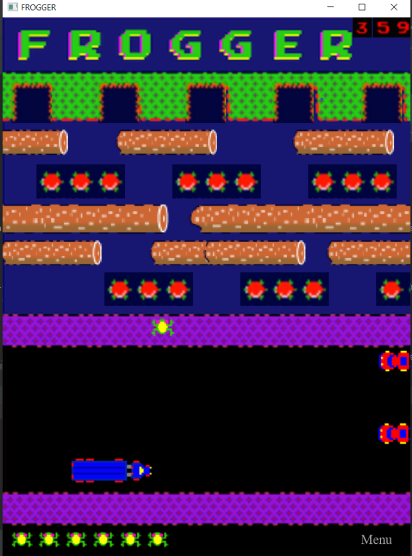
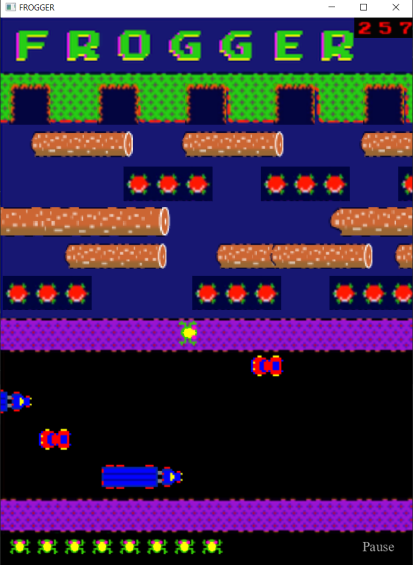
menu edits

diff --git a/src/main/java/application/Main.java b/src/main/java/application/Main.java
@@ -200,18 +200,18 @@ public class Main extends Application {
 	}
 
 	/**
-	 * PauseMenu class defines a Pause Menu with items to let players restart the game,
+	 * Pause class defines a Pause Menu with items to let players restart the game,
 	 * resume the game, exit the game and return to Main Menu upon a click.
 	 */
-	private class Menu extends Pane{
+	private class Pause extends Pane{
 
 		/**
-		 * Class constructor for Menu.
-		 * Creates and instance of Menu to list the menu items that can be accessed by the player
+		 * Class constructor for Pause.
+		 * Creates and instance of Pause to list the menu items that can be accessed by the player
 		 * which includes the Resume, Restart, Exit and Exit to Main Menu buttons.
 		 * @param pauseStage The separate window (Stage) that displays the pause menu
 		 */
-		public Menu(Stage pauseStage){
+		public Pause(Stage pauseStage){
 
 			ImageView image = new ImageView("file:src/main/resources/images/bg.jpg");
 
@@ -313,14 +313,14 @@ public class Main extends Application {
 
 		level = myLevel;
 		MenuBox menu = new MenuBox(
-				new MenuItem("Menu", new ButtonAction() {
+				new MenuItem("Pause", new ButtonAction() {
 					@Override
 					public void act() throws IOException {
 						mediaPlayer.stopMusic();
 						level.stop();
 						frog.blockInputControls = true;
 						Stage pauseStage = new Stage();
-						pauseStage.setScene(new Scene(new Menu(pauseStage)));
+						pauseStage.setScene(new Scene(new Pause(pauseStage)));
 						pauseStage.setHeight(350);
 						pauseStage.setWidth(350);
 						pauseStage.show();

diff --git a/README.md b/README.md
@@ -1,22 +1,23 @@
 ### COMP2042_CW_CeliaLimErnYin
 
-### Screenshot of Game 
+### Screenshots of Game 
 ---
 ![Image test](src/main/resources/images/FroggerMain.png)
 ![Image test](src/main/resources/images/FroggerGame.png)
+![Image test](src/main/resources/images/FroggerPause.png)
 
 
 ### Refactoring 
 ---
 - <h4>Packaging</h4>
 
-Originally the classes were all cluttered together under one package. Therefore, I packaged related classes together.
-1. **actors** - Contains classes that will define objects that will be visible on the stage (window).
+Related classes were packaged together.
+1. **actors** - Contains classes that define objects visible on the stage.
    
-   - **actors.active** - Contains classes of actors that shows movement in the stage. Eg. Animal, Car
-   - **actors.passive** - Contains classes of actors that are static in the stage. Eg. Background Image, Lives
+   - **actors.active** - Contains classes of actors that shows movement. Eg. Animal, Car
+   - **actors.passive** - Contains classes of actors that are static. Eg. Background Image, Lives
 
-2. **world** - Contains classes that defines the stage setting. Eg. LevelType1, MyLevel, World
+2. **world** - Contains classes that defines the stage setting. Eg. LevelType1, World
 
 3. **menu** - Contains classes used to define construction of Menus
 
@@ -26,31 +27,28 @@ Originally the classes were all cluttered together under one package. Therefore,
 
 - <h4>Breaking up of Classes</h4>  
 
-To improve encapsulation and promote single responsibility, large classes like Animal was broken down. An additional AnimationIterator class was added to separately control the animations of the animal.
-The Obstacle class was also broken down to a Car class and a Truck class. 
-A MediaPlay class was also added for playing music to promote single responsibility.  
+To improve encapsulation and promote single responsibility, large classes like Animal was broken down. An additional AnimationIterator class separately controls the animal animations 
+The Obstacle class was also broken down. A MediaPlay class was also separately added for playing music.  
 
 - <h4> Design Patterns</h4> 
 
 Included an MVC pattern to control the MainMenu and show the Info window using scene builder. 
 
 - <h4>Naming Convention Changes</h4>
-The naming convention for a few methods, fields and classes were changed to avoid confusion. 
-Eg. MyStage was changed to MyLevel to avoid confusion with the Stage class in JavaFX.
-The stop() and start() method in Main class were also changed to stopGame() and startGame() to avoid 
-confusion with the stop() and start() method of the timer in World class.
+Some naming conventions were changed to avoid confusion and disorientation that was present in the orginal code. 
+Eg. MyStage was changed to MyLevel to avoid confusion with the JavaFX Stage class.
+
 
 ### Code Maintenance
 ---
 
 - Scoring System
 
-Made changes to the scoring system where points will be added based on travel distance (along the vertical plane) by the player in each round in addition to the 
+Points will now be added based on travel distance (along the vertical plane) by the player in each round in addition to the 
 points earned after winning each level.
 
 - Winning System
 
-Previously, there was a bug where frog holes that have been filled can still be entered by the frog.
 Changes were made so that frog holes can no longer be activated for a second time. 
 
 - Display of scores
@@ -59,13 +57,12 @@ Made changes on the display of scores so that the images of scores would not ove
 
 - Animation of Frog
 
-Made changes in the animation of the frog. A separate class was created to handle the animation of the movements of the frog.
+A separate class was created to handle the animation of the movements of the frog.
 Images of the frog are now stored in an array to be looped every frame to form an animation.
 
 - Movement on Obstacles
 
-Made changes to the code defining the movement of the frog when standing on obstacles. Instead of fixing the speed of the frog, we will get the speed of the obstacle and assigned it to the frog
-so it will move in time with the obstacle.
+Instead of fixing the speed of the frog, we will get the speed of the obstacles and assigned it to the frog so it will move in time with the obstacle.
 
 
 ### Additions
@@ -73,31 +70,31 @@ so it will move in time with the obstacle.
 
 - Main Menu 
 
-Added an interactive Main Menu for the game displaying options to start the game, exit the game, access the leaderboard or the info Menu.
+Added a Main Menu  with options to start the game, exit the game, access the leaderboard or the info Menu.
 
 - LeaderBoard
 
-Added a Leaderboard displaying all the scores of the players after each game. The Leaderboard is a permanent score listing of the game.
+Added a permanent Leaderboard displaying all the scores of the players in order.
 The scores are stored in a file and loaded each time the game application starts.
 
 - Information Menu
 
-Added an Info Menu using Scence Builder to include an MVC pattern in the design. There is a controller class that controls the functions of the Info Menu.
-The Info Menu shows simple information on the operations of the game.
+Added an Info Menu using that shows the simple operations of the game. A controller class controls the functions of the Info Menu.
+
 
 - Pause Menu
 
-Added a mid-game pause Menu so players can pause the game. The pause Menu also lets players restart the game , resume the game, exit back to the main menu or exit the game entirely.
+Added a mid-game pause Menu so players can pause, resume, restart the game, exit to the main menu or exit the game entirely.
 
 - Additional Levels
 
-Added a few more additional levels with different obstacle setting and levels of difficulty. There are currently 5 more additional Level types added and can be increased accordingly.
+Added additional levels with different levels of difficulty.
 The levels are repeated in an infinite loop and the game only ends once the player loses.
 
 - Lives
 
-Lives are added and the player only loses once the game ends and all lives are lost.
-The lives are displayed at the bottom of the window and players will know how many lives they have left.
+Lives are added and the player only loses once all lives are lost. Lives will be visibly removed each time the frog dies.
+The lives are displayed at the bottom of the window for the players.
 
 - Sound effects
 
@@ -105,7 +102,7 @@ Added a few more additional sound effect to indicate the change in levels, wins 
 
 - Junit Testings
 
-Added additional Junit tests for a few classes.
+Added additional Junit tests for a few classes
 
 - Build Files
 
